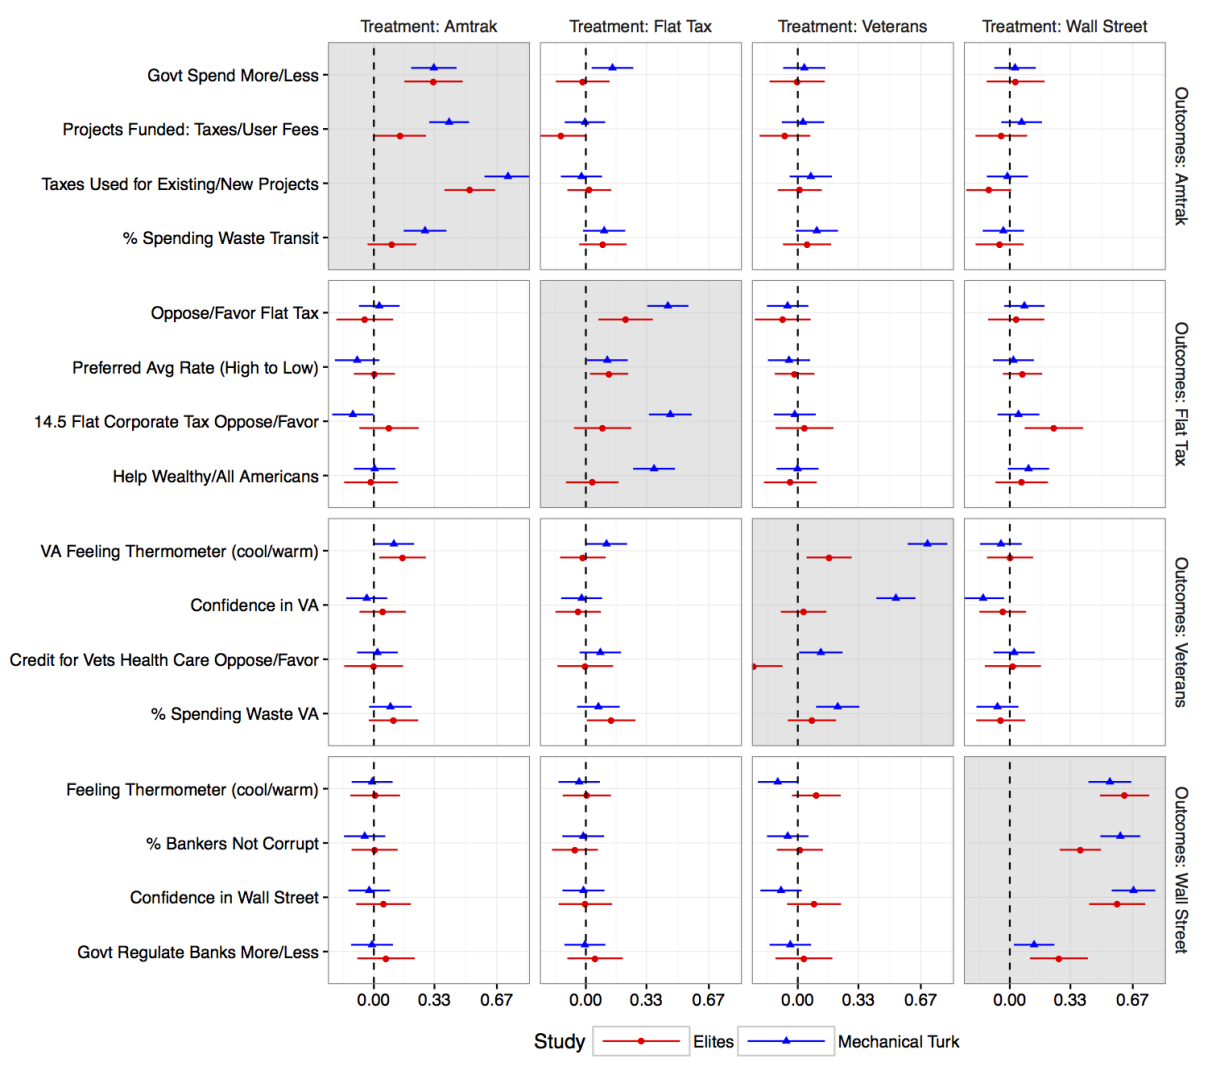
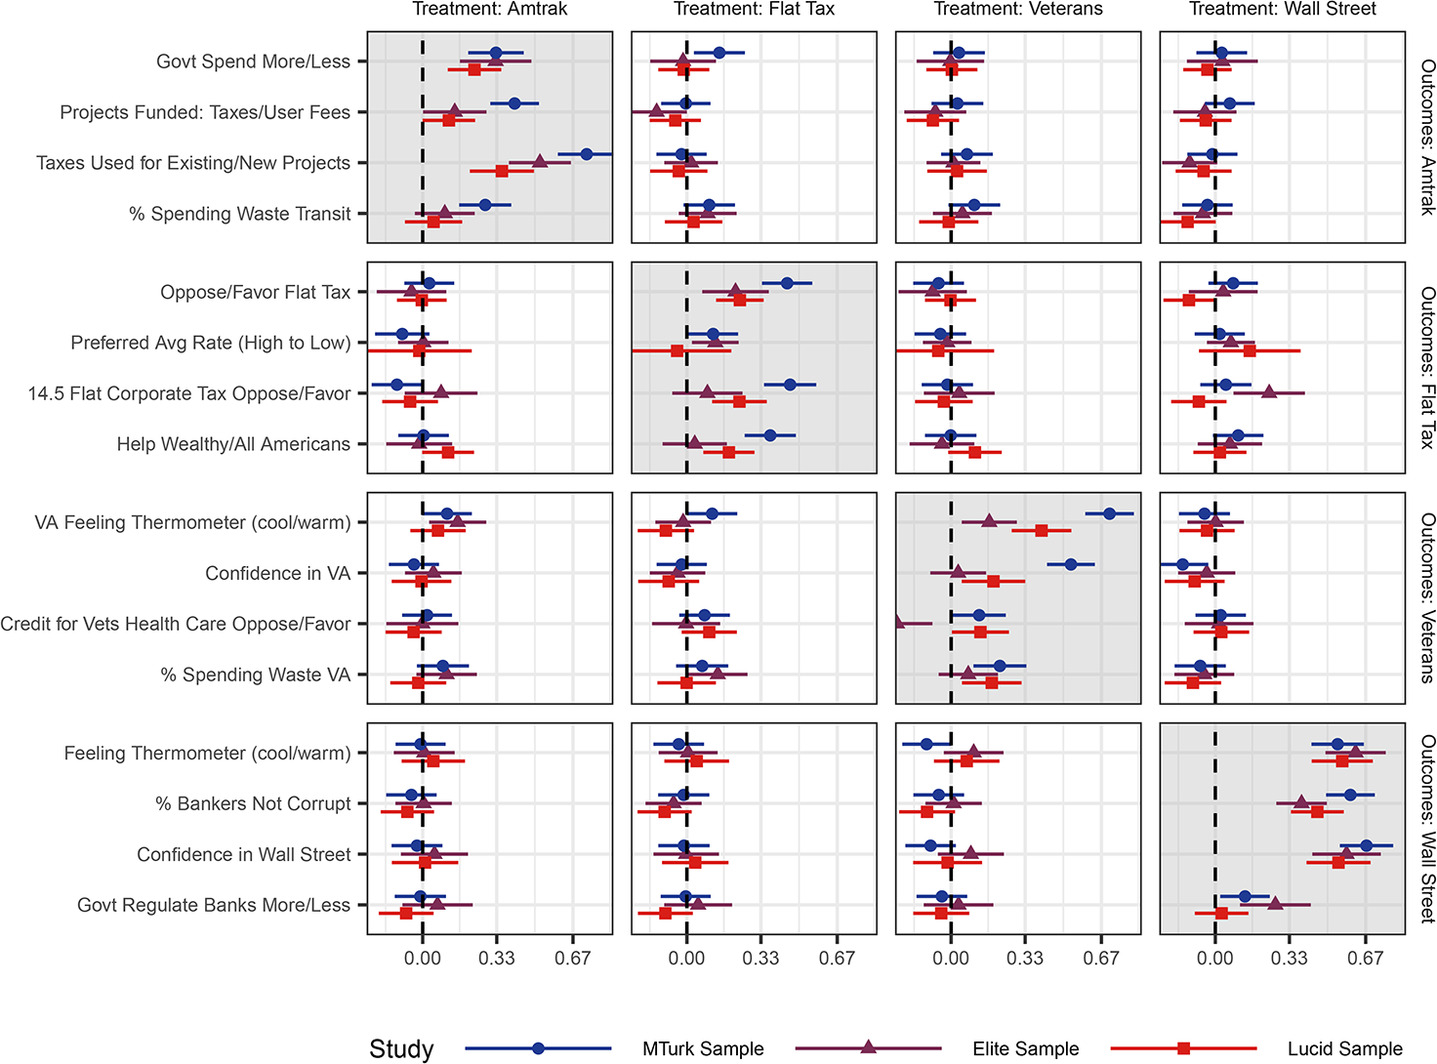
Update the coppock_green_2022 display figure and give it its caption
The new figure is the colour version carrying the study legend, replacing the
greyscale one that had no way to tell the three samples apart. It arrived as a
.jpg beside the old .png; adopting it under the canonical <id>_display.png
keeps one display file per work, so the folder is not ambiguous about which is
live.

Caption is the paper's own, so the page reads "Figure 4 from paper: Effects of
newspaper op-eds on target and nontarget issues." The written gloss stays in
the metadata, unrendered, as with every other work.

Changed region(s): [[0.0, 0.0, 1.0, 0.9925], [0.8882, 0.9615, 0.9801, 0.9925], [0.245, 0.9615, 0.3063, 1.0]]

diff --git a/coppock_green_2022.html b/coppock_green_2022.html
@@ -122,7 +122,10 @@ Belief systems are said to be dynamically constrained if a change in one opinion
 <p><a href="coppock_green_2022.pdf" target="_blank">PDF</a> <a href="coppock_green_2022_appendix.pdf" target="_blank">Appendix</a> <a href="coppock_green_2022_preprint.pdf" target="_blank">Preprint</a> <a href="https://doi.org/10.1086/716294" target="_blank">Journal</a> <a href="https://doi.org/10.7910/DVN/NBMH7M" target="_blank">Replication archive</a> <a href="https://osf.io/vdcyq" target="_blank">Pre-analysis plan 1</a> <a href="https://osf.io/ch4ms" target="_blank">Pre-analysis plan 2</a> <a href="coppock_green_2022.txt" target="_blank">BibTeX</a></p>
 </div>
 <div class="workFigure-landscape workFigure">
-<p><img src="display_figures/coppock_green_2022_display.png" alt="coppock_green_2022"></p>
+<img src="display_figures/coppock_green_2022_display.png" alt="coppock_green_2022">
+<div class="workGloss">
+<span class="figureLabel">Figure 4 from paper:</span> Effects of newspaper op-eds on target and nontarget issues.
+</div>
 </div>
 
 </div></div></main>
